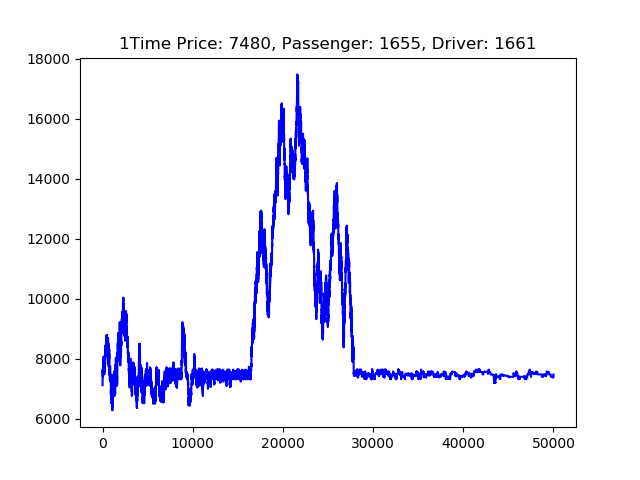
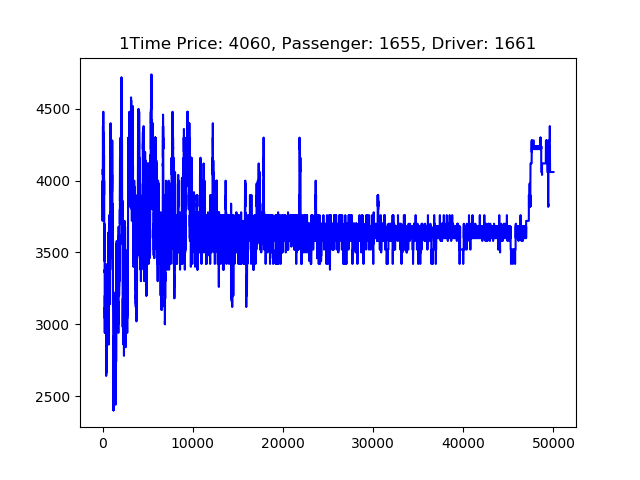
grape

diff --git a/noPrint_final.py b/noPrint_final.py
@@ -46,7 +46,7 @@ class Env:
         reward = 0
         
         #보상 가격허용치를 넘으면 -100
-        if next_state < (INITIALPRICE / 2) or next_state > (INITIALPRICE * 2):
+        if next_state < (INITIALPRICE / 4) or next_state > (INITIALPRICE * 1.5):
             reward = -100
             
         else:
